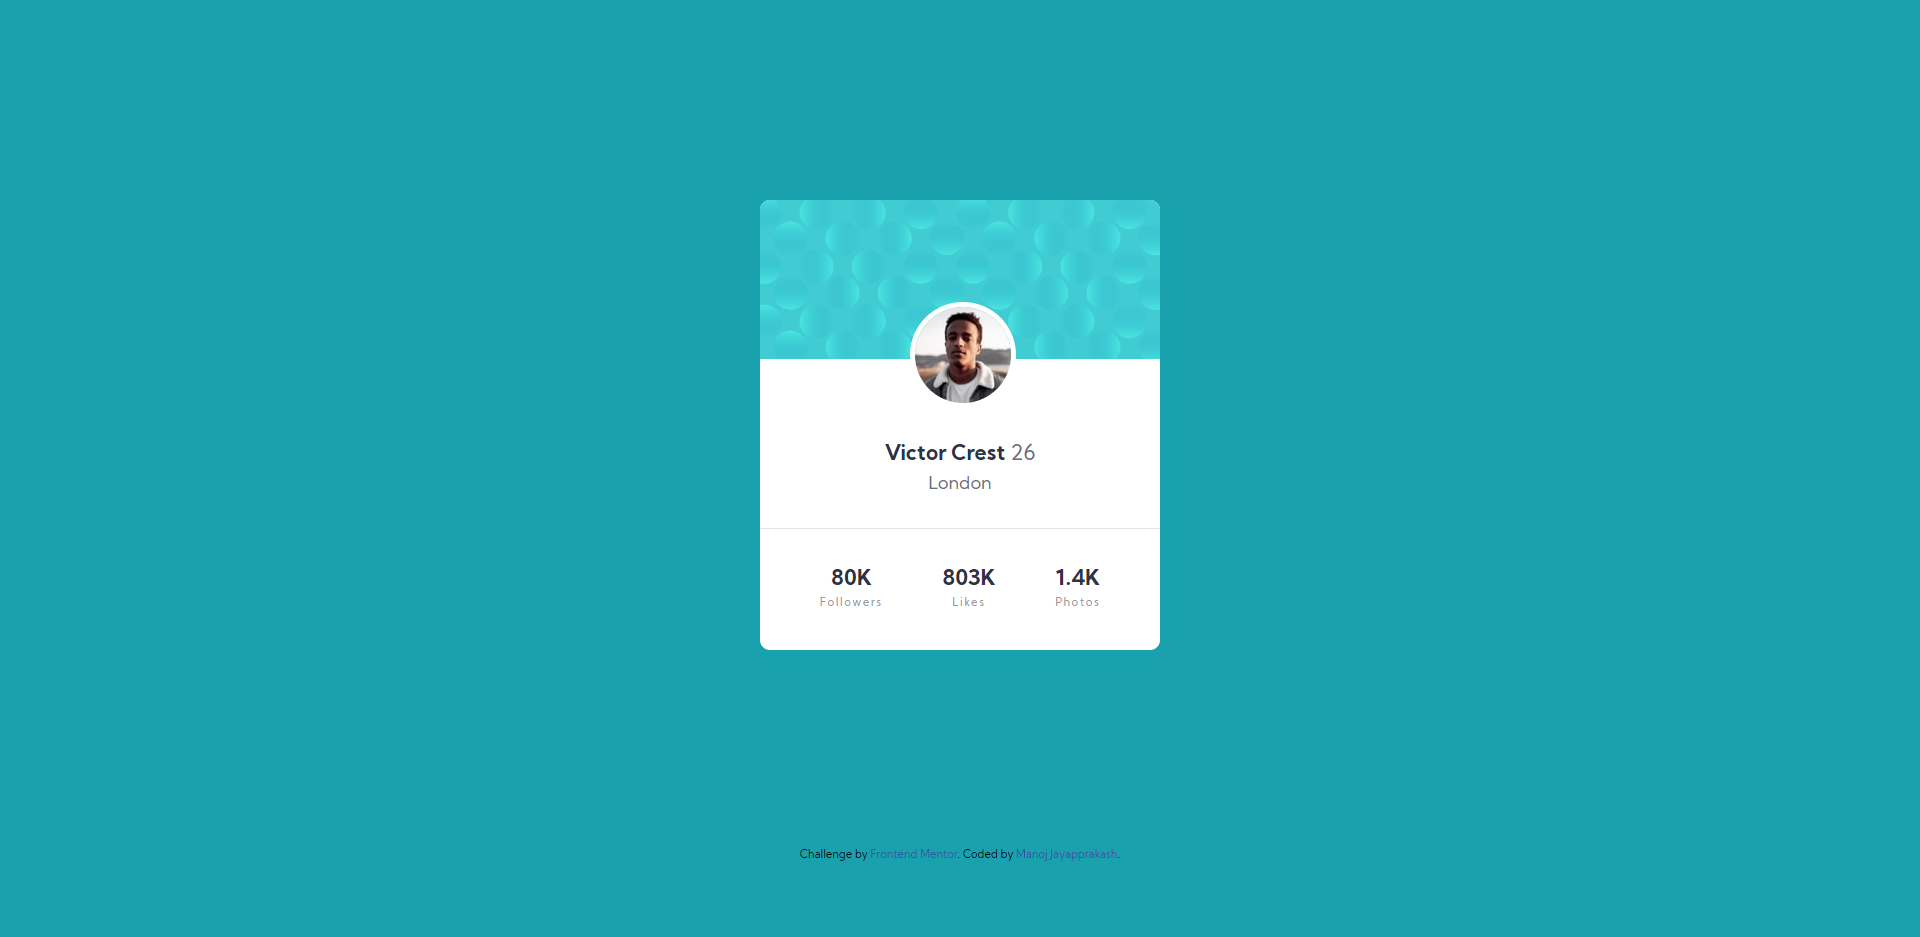
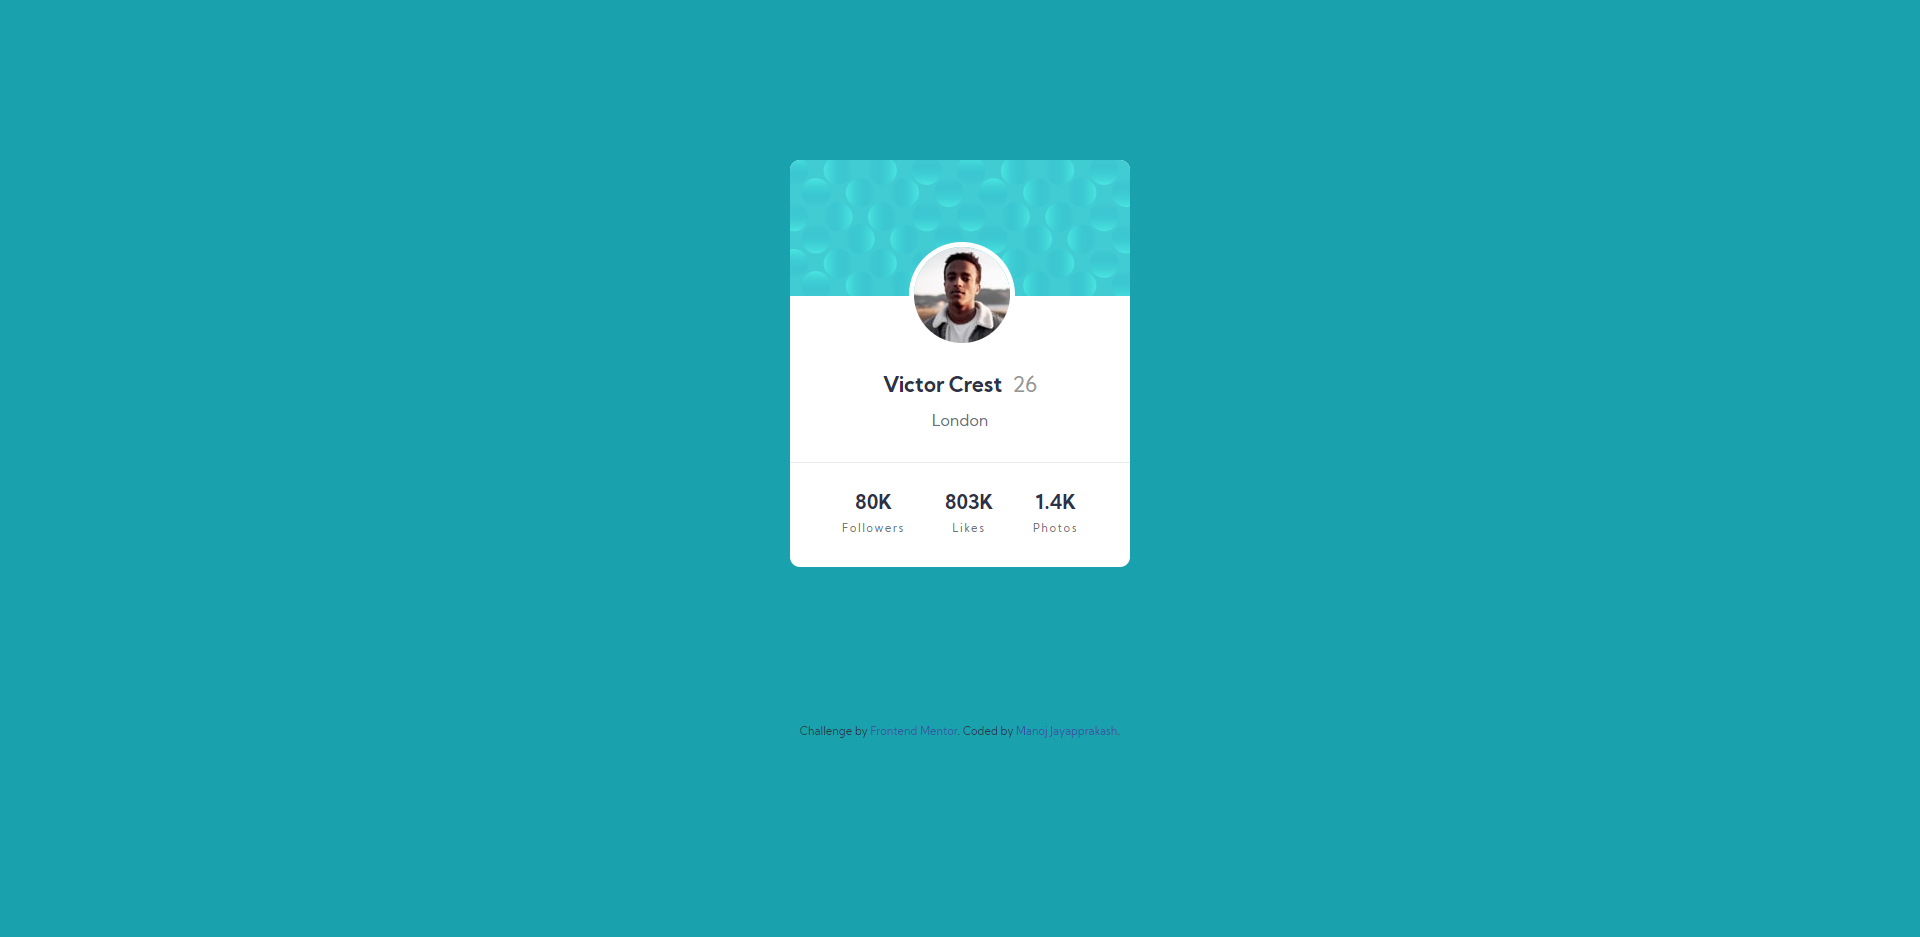
Added screenshot

diff --git a/style.css b/style.css
@@ -16,6 +16,8 @@ body {
   font-size: 18px;
   background-color: hsl(185, 75%, 39%);
   color: hsl(229, 23%, 23%);
+  position: relative;
+  overflow: hidden;
 }
 
 img {
@@ -38,7 +40,7 @@ p {
 
 .card {
   width: 90%;
-  margin: 5rem auto;
+  margin: 10rem auto;
   background-color: white;
   border-radius: 10px;
   overflow: hidden;
@@ -90,4 +92,20 @@ p {
   margin: 10px 0 0 0;
   font-size: 0.7rem;
   letter-spacing: 1.5px;
+}
+
+.bg-top,
+.bg-bottom {
+  position: absolute;
+  z-index: -1;
+}
+
+.bg-top {
+  top: -50%;
+  left: -50%;
+}
+
+.bg-bottom {
+  bottom: 20%;
+  right: -50%;
 }
